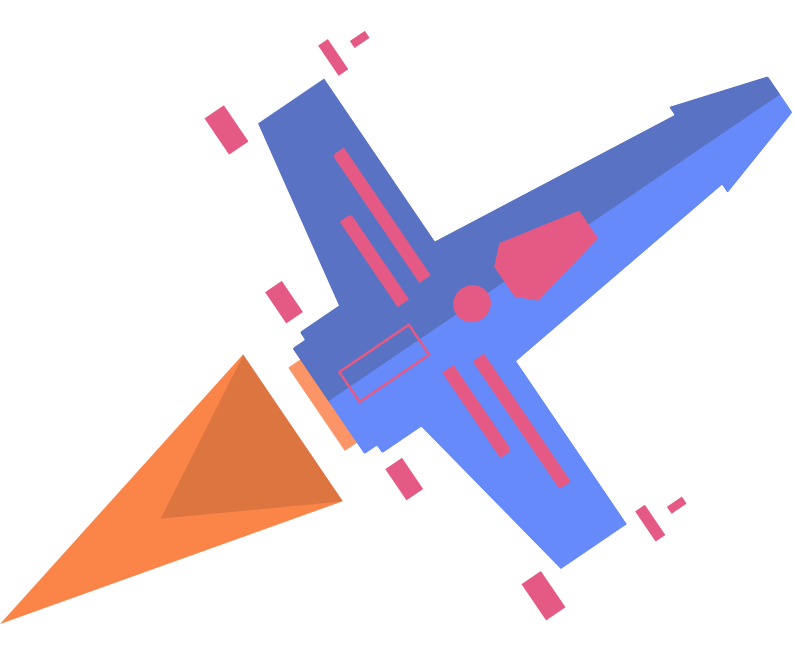
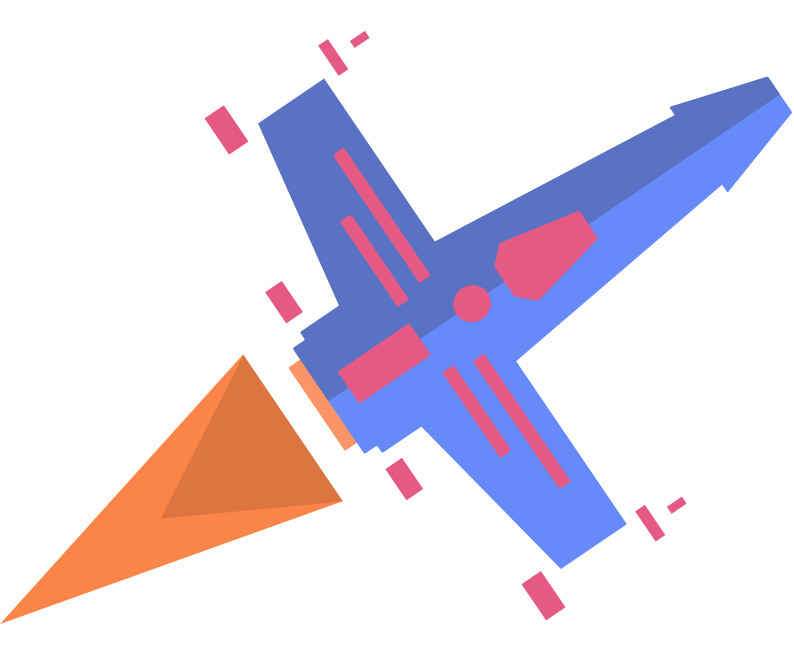
added more ship sprites

Changed region(s): [[0.4232, 0.4885, 0.5441, 0.6107]]

diff --git a/js/index.js b/js/index.js
@@ -15,6 +15,7 @@ let asteroids = []
 let particles = []
 let astCount = 4
 let hit = false
+let music = true
 //prescreen appears so that user inputs into browser and music can start
 let preScreen = true
 let game = {
@@ -142,6 +143,7 @@ let fpsInterval = 1000 / fps
 let msPrev = window.performance.now()
 
 
+
 //main animation function
 function animate(){
     if (!game.active) return
@@ -177,8 +179,9 @@ function animate(){
 
     document.querySelector('#showSeconds').innerHTML = Math.floor(21 - (elapTime/1000)) + 's'
 
-    c.fillStyle = '#24162F'
-    //c.fillStyle = '#004162'
+    // c.fillStyle = '#24162F'
+    c.fillStyle = '#2c0c52'
+    
     c.fillRect(0, 0, canvas.width, canvas.height)
     
 
@@ -316,7 +319,7 @@ function animate(){
         player.movePlayer()
     }
 
-}
+}//END OF ANIMATE
 
 
 document.addEventListener('keydown', handleKeyInput);
@@ -372,6 +375,7 @@ document.querySelector('#optionsButton').addEventListener('click',()=>{
     document.querySelector('#startScreen').style.display = 'none'
     document.querySelector('.optionsScreen').style.display = 'flex'
     document.querySelector('#optionsScreen').style.display = 'flex'
+    document.querySelector('#optionsScreen').style.backgroundColor = '#004162'
     document.querySelector('#opHomeButton').style.display = 'block'
     document.querySelector('#opBackButton').style.display = 'none'
     audio.pressedSound.play()
@@ -398,9 +402,11 @@ document.querySelector('#opBackButton').addEventListener('click',()=>{
 document.querySelector('.musicOn').addEventListener('change',(event)=>{
     if(event.currentTarget.checked){
         bgMusic.mute(false)
+        music = true
     }else{
         console.log("music paused")
         bgMusic.mute(true)
+        music = false
     }
 })
 

diff --git a/js/classes/audio.js b/js/classes/audio.js
@@ -11,7 +11,7 @@ const audio = {
     }),
     bombSound: new Howl({
         src: './audio/bomb.mp3',
-        volume: .2,
+        volume: .1,
         rate: 2.0 
     }),
     laser: new Howl({
@@ -41,8 +41,10 @@ function playlist(i, list) {
         onend: function () {
             if ((i + 1) == list.length) {
                 playlist(0, list)
+                if(!music) bgMusic.mute(true)
             } else {
                 playlist(i + 1, list)
+                if(!music) bgMusic.mute(true)
             }
         }
     })

diff --git a/js/classes/player.js b/js/classes/player.js
@@ -15,7 +15,7 @@ class Player{
         this.opacity = 1
 
         const image = new Image()
-        image.src = './img/blue_pink_ship_pixel.png'
+        image.src = './img/darth_maul_ship.png'
 
         image.onload = () => {
             const ratio = .5

diff --git a/style.css b/style.css
@@ -188,6 +188,7 @@
     opacity: 0;
     width: 0;
     height: 0;
+    color: #2c0c52;
   }
   
 
